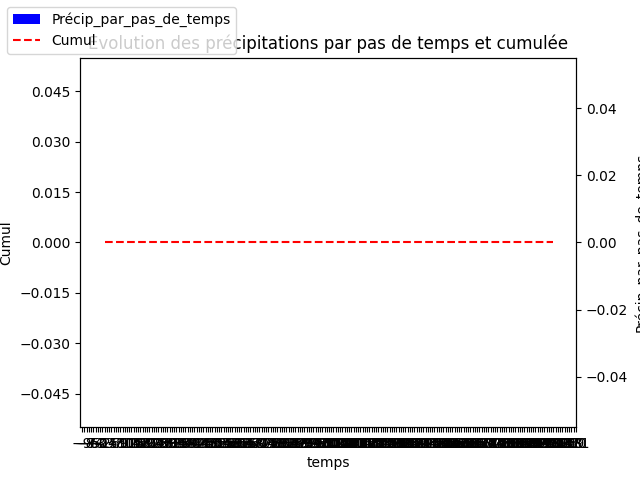
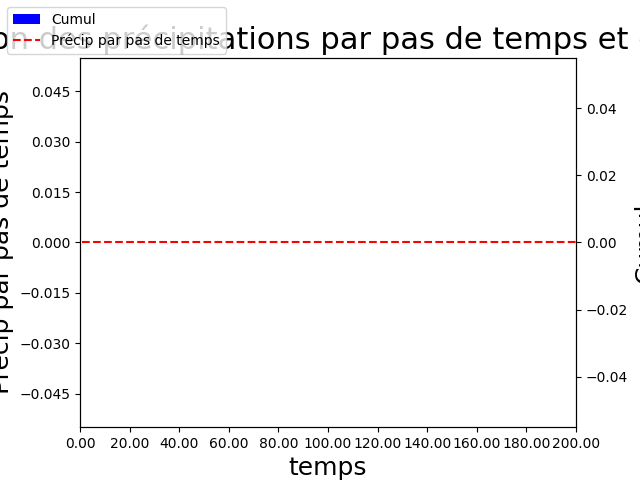
harmonisation de fonctions.py

diff --git a/Scripts/ditribution.py b/Scripts/ditribution.py
@@ -46,9 +46,10 @@ class distribution:
                         print (f"temps v : {b-a} s")
 
                         mass_form = np.array(results[2]).sum(axis=1)
-                        Affichage.Affichage_Concentration(concentration_formate, "concentration", model, path_fig)
-                        Affichage.Affichage_Concentration(mass_form, "masse", model, path_fig)
+                        Affichage.Affichage_Concentration(concentration_formate, "Concentration", model, path_fig)
+                        Affichage.Affichage_Concentration(mass_form, "Masse", model, path_fig)
                         Affichage.Affichage_Precipitation(results[1], model, path_fig)
+                        Affichage.Afficher()
                 else:
                     if deformable == "No":
                         model_config = Model_bl_sf(number_stitches,number_bin,number_particules,time_step,speed_max,esp,CFL,type_init)
@@ -57,9 +58,10 @@ class distribution:
                         concentration_formate = np.array(results[0]).sum(axis=1)
 
                         mass_form = np.array(results[2]).sum(axis=1)
-                        Affichage.Affichage_Concentration(concentration_formate, "concentration", model, path_fig)
-                        Affichage.Affichage_Concentration(mass_form, "masse", model, path_fig)
+                        Affichage.Affichage_Concentration(concentration_formate, "Concentration", model, path_fig)
+                        Affichage.Affichage_Concentration(mass_form, "Masse", model, path_fig)
                         Affichage.Affichage_Precipitation(results[1], model, path_fig)
+                        Affichage.Afficher()
         else : 
             
             if model == "Box_Lagrangien":
@@ -70,16 +72,13 @@ class distribution:
 
                         results = model_config.run()
                         concentration_formate = np.array(results[0]).sum(axis=1)
+                        print(results[0])
 
                         mass_form = np.array(results[2]).sum(axis=1)
-                        Affichage.Affichage_Concentration(concentration_formate, "concentration", model, path_fig)
-                        Affichage.Affichage_Concentration(mass_form, "masse", model, path_fig)
-                        Affichage.Affichage_Precipitation(results[1], model, path_fig)
-                        mass_form = np.array(profil[2]).sum(axis=1)
-
-                        Affichage.Affichage_Concentration(concentration_formate, "concentration", model)
-                        Affichage.Affichage_Concentration(mass_form, "masse", model)
-                        Affichage.Affichage_Precipitation(profil[1], model)
+                        #Affichage.Affichage_Concentration(concentration_formate, "Concentration", model, path_fig)
+                        #Affichage.Affichage_Concentration(mass_form, "Masse", model, path_fig)
+                        #Affichage.Affichage_Precipitation(results[1], model, path_fig)
+                        #Affichage.Afficher()
                     else:
                         model_config = Model_bl_def(number_stitches,time_step,number_particules,speed_max,esp,CFL,type_init)
 
@@ -87,9 +86,10 @@ class distribution:
                         concentration_formate = np.array(profil[0])
 
                         mass_form = np.array(profil[2])
-                        Affichage.Affichage_Concentration(concentration_formate, "concentration", model)
-                        Affichage.Affichage_Concentration(mass_form, "masse", model)
+                        Affichage.Affichage_Concentration(concentration_formate, "Concentration", model)
+                        Affichage.Affichage_Concentration(mass_form, "Masse", model)
                         Affichage.Affichage_Precipitation(profil[1], model)
+                        Affichage.Afficher()
 
                 else:
                     if deformable == "No":
@@ -99,9 +99,10 @@ class distribution:
                         concentration_formate = np.array(results[0]).sum(axis=1)
 
                         mass_form = np.array(results[2]).sum(axis=1)
-                        Affichage.Affichage_Concentration(concentration_formate, "concentration", model, path_fig)
-                        Affichage.Affichage_Concentration(mass_form, "masse", model, path_fig)
+                        Affichage.Affichage_Concentration(concentration_formate, "Concentration", model, path_fig)
+                        Affichage.Affichage_Concentration(mass_form, "Masse", model, path_fig)
                         Affichage.Affichage_Precipitation(results[1], model, path_fig)
+                        Affichage.Afficher()
 
             elif model in ('EULE', 'EULE2', 'STAT'):
                 cls = {'EULE': Eule, 'EULE2': Eule2, 'STAT': Stat}[model]
@@ -112,9 +113,9 @@ class distribution:
                 results = model_config.run()
 
                 concentration_formate = np.array(results[3])
-                Affichage.Affichage_Concentration(concentration_formate, "Concentration en particules", model, path_fig)
+                Affichage.Affichage_Concentration(concentration_formate, "Concentration", model, path_fig)
                 concentration_formate = np.array(results[2])
-                Affichage.Affichage_Concentration(concentration_formate, "Rapport de mélange", model, path_fig)
+                Affichage.Affichage_Concentration(concentration_formate, "Masse", model, path_fig)
                 #Affichage.Affichage_Precipitation(results[0], model, path_fig)
                 Affichage.Afficher()
 

diff --git a/Scripts/fonctions.py b/Scripts/fonctions.py
@@ -289,7 +289,7 @@ class Affichage :
         orig_map=plt.cm.get_cmap('gist_ncar')
         reversed_map = orig_map.reversed()
         plt.pcolormesh(Transpose,cmap=reversed_map)
-        plt.title(f"{typ} : évolution dans le temps", fontsize=22)
+        plt.title(f"Evolution de la {typ} de particules en fonction du temps", fontsize=22)
         plt.xlabel("Temps", fontsize=18)
         plt.ylabel("Mailles du modèle", fontsize=18)
         plt.colorbar()
@@ -397,7 +397,7 @@ class InitialCond :
 
     '''
     
-    def __init__(self, nb_grid, esp, types, mode = "simple", Hmax = 5000, sigma = 20, nb_classes = 10, rho_r = 0.001, N = 1) :
+    def __init__(self, nb_grid, esp, types, mode = "simple", Hmax = 5000, sigma = 20, nb_classes = 10, r = 0.001, N = 1) :
 
         if types == "bin":
 
@@ -420,10 +420,10 @@ class InitialCond :
             if mode == "gauss" :
                 concentration_profile = [gaussienne(Hmax, sigma, self.grid[i]) for i in range(nb_levels)]
 
-            self.rho_r_profile = np.array(concentration_profile) * rho_r
+            self.r_profile = np.array(concentration_profile) * r
 
             eq=Eq(esp)
-            lam = eq.Lanbda (rho_r, N)
+            lam = eq.Lanbda (r, N)
             dmin, dmax = eq.Dmin_Dmax(lam)
             self.bin_concentration = eq.Classe_D (nb_classes, dmin, dmax, N, lam) # division in n bins
 

diff --git a/Scripts/box_lagrangien_vectorised.py b/Scripts/box_lagrangien_vectorised.py
@@ -52,7 +52,7 @@ class Model_bl():
         
         """
    
-        condi_init = InitialCond(self.number_stitches,self.esp,"bin",nb_classes = self.nb_diam,N=N,mode=type_init)
+        condi_init = InitialCond(self.number_stitches,self.esp,"bulk",nb_classes = self.nb_diam,N=N,mode=type_init)
    
         self.grid0 = condi_init.data
 
